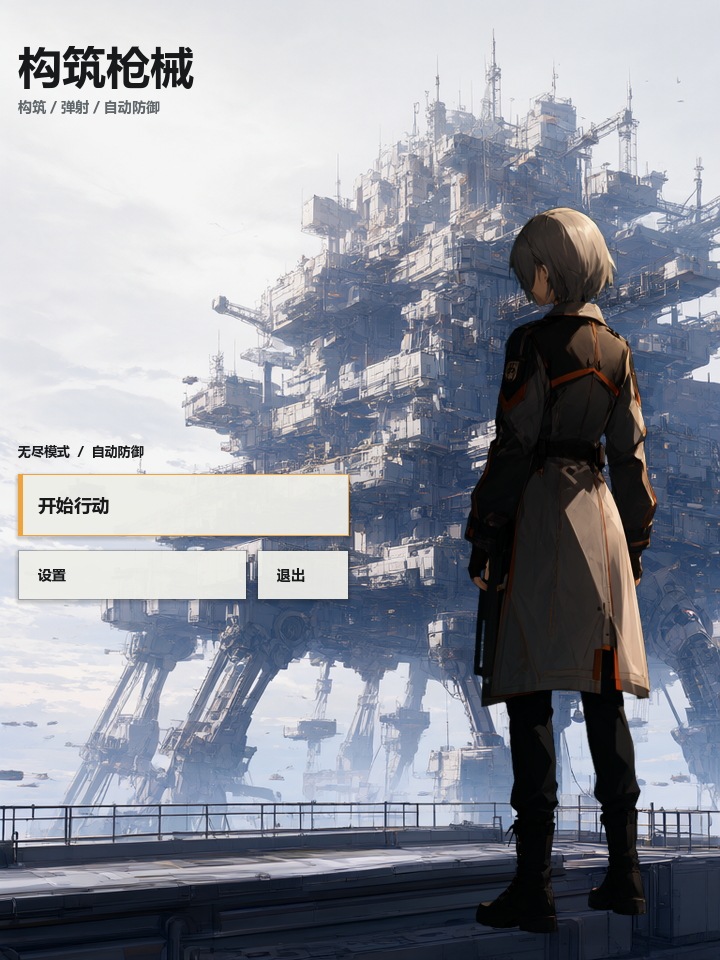
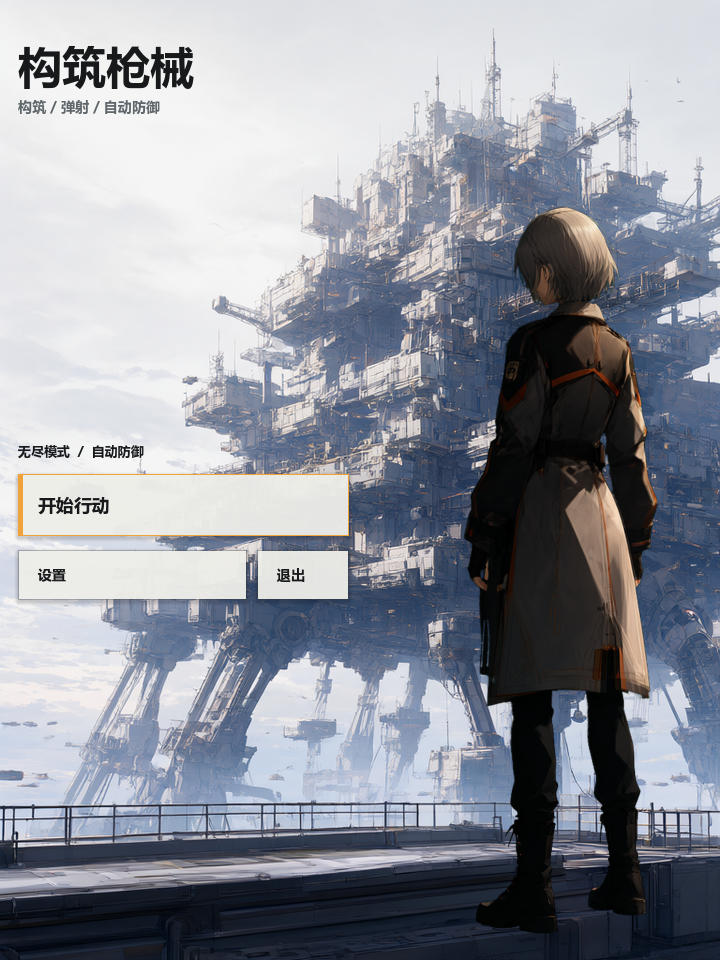
feat: 主界面立绘改为分部位权重的待机动效
- 头部改为按颈部高度分带取权重，整颗头绕颈转动，修掉头发顶端几乎不动的问题
- 增加手臂绕肩摆动、点头、发丝二次谐波与偶发阵风
- 头部、衣摆、手臂各自延迟跟随，脚底和靴子保持钉在地面
- 更新主界面截图与 README

diff --git a/README.md b/README.md
@@ -69,7 +69,7 @@
 - 游戏内按 Esc 或点击右上角 `≡` 打开系统面板，战斗暂停；可继续、重开或返回主界面。
 - 设置包含中英文、全屏、怪物动画、场地网格和索敌提示，更改即时生效。
 - 设置保存到 `user://settings.cfg`；无头测试不会读取或改写用户配置。
-- 主界面使用原创成年女性战术角色，立绘为巨构风格：角色站在观景平台上遥望步行式移动都市；背景与人物分成两层素材，着色器给人物做呼吸、重心摇摆和发梢／衣摆摆动的待机动效，长屏时整层左移避免被裁。战斗场景不加入人形单位，整体采用明亮工业背景、白色面板与信号橙强调色。
+- 主界面使用原创成年女性战术角色，立绘为巨构风格：角色站在观景平台上遥望步行式移动都市；背景与人物分成两层素材，着色器按脚底、颈部、肩部和衣摆的局部权重做头颈转动、呼吸、手臂摆动与发梢／衣摆跟随，并叠加偶发阵风，长屏时整层左移避免被裁。战斗场景不加入人形单位，整体采用明亮工业背景、白色面板与信号橙强调色。
 
 ![主界面：遥望步行式移动都市巨构](menu_preview.png)
 
@@ -125,7 +125,7 @@ Godot_v4.7.2-stable_win64.exe --path . res://tools/screenshot.tscn
 
 ## 美术素材
 
-主界面背景与人物立绘（分两层）、战场底板、四类怪物以及商店与场上炮塔由本地 ComfyUI 的 `qwen_workflow` 生成，成品位于 `assets/ui/`。主界面人物在纯绿幕上单独生成，后处理按绿色强度抠像并压掉绿边，人物层和背景共用 720x960 设计稿坐标，`shaders/menu_character.gdshader` 以脚底为锚点做呼吸、摇摆、发梢和衣摆位移。每种怪物有一张四帧横向动画图集，按类型以 6～12 FPS 播放并使用不同相位；保留原碰撞矩形、受击后限时显示的血条和受击闪光。炮塔拆成基盘与炮塔头两层素材：基盘是严格俯视的扁平圆盘／八边形板，后处理时按 36／8 重旋转对称化，随瞄准旋转时不会出现光照翻转或透视变化；炮塔头按机身最宽处对齐基盘圆心，和基盘共用同一旋转轴，开炮只让头部后坐，放置预览使用同一套分层素材。需要重新生成时，先启动 `http://127.0.0.1:8188/`，再运行：
+主界面背景与人物立绘（分两层）、战场底板、四类怪物以及商店与场上炮塔由本地 ComfyUI 的 `qwen_workflow` 生成，成品位于 `assets/ui/`。主界面人物在纯绿幕上单独生成，后处理按绿色强度抠像并压掉绿边，人物层和背景共用 720x960 设计稿坐标，`shaders/menu_character.gdshader` 以脚底、颈部、肩部和衣摆为锚点，按局部权重叠加头颈转动、呼吸、手臂摆动和发梢／衣摆的延迟跟随，并周期性加入阵风。每种怪物有一张四帧横向动画图集，按类型以 6～12 FPS 播放并使用不同相位；保留原碰撞矩形、受击后限时显示的血条和受击闪光。炮塔拆成基盘与炮塔头两层素材：基盘是严格俯视的扁平圆盘／八边形板，后处理时按 36／8 重旋转对称化，随瞄准旋转时不会出现光照翻转或透视变化；炮塔头按机身最宽处对齐基盘圆心，和基盘共用同一旋转轴，开炮只让头部后坐，放置预览使用同一套分层素材。需要重新生成时，先启动 `http://127.0.0.1:8188/`，再运行：
 
 ```bash
 python tools/generate_ui_assets.py all
